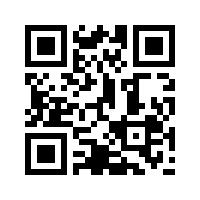
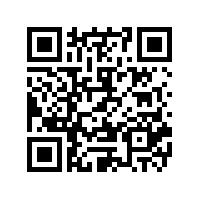
modif qr code

Changed region(s): [[0.12, 0.12, 0.9, 0.9]]

diff --git a/src/main/java/com/service/KitchenService.java b/src/main/java/com/service/KitchenService.java
@@ -53,6 +53,7 @@ public class KitchenService {
     private OwnerRepository ownerRepository;
     @Autowired
     private DTOUtils dtoUtils;
+    private final String restaurantTableIdPrefix ="start?restaurantTableId=";
 
     private final String QR_CODE_FILE_TYPE="QR Code";
 
@@ -149,7 +150,7 @@ public class KitchenService {
     private byte[] generateQRCode ( String frontEndUrl,String tableNumber) throws WriterException, IOException {
         QRCodeWriter barcodeWriter = new QRCodeWriter();
         BitMatrix bitMatrix =
-                barcodeWriter.encode(frontEndUrl+tableNumber, BarcodeFormat.QR_CODE, 200, 200);
+                barcodeWriter.encode(frontEndUrl+restaurantTableIdPrefix+tableNumber, BarcodeFormat.QR_CODE, 200, 200);
         BufferedImage bufferedImage = MatrixToImageWriter.toBufferedImage(bitMatrix);
         ByteArrayOutputStream byteArrayOutputStream = new ByteArrayOutputStream();
         ImageIO.write(bufferedImage,"jpg",byteArrayOutputStream);

diff --git a/src/test/java/com/controller/KitchenRestControllerTest.java b/src/test/java/com/controller/KitchenRestControllerTest.java
@@ -236,7 +236,7 @@ class KitchenRestControllerTest {
 
             try {
                 Result value = new MultiFormatReader().decode(bitmap);
-                assertEquals(frontEndUrl + String.valueOf(restaurentTableDTO.getTableNumber()), value.getText());
+                assertEquals(frontEndUrl+"start?restaurantTableId=" + String.valueOf(restaurentTableDTO.getTableNumber()), value.getText());
             } catch (NotFoundException e) {
                 System.out.println("There is no QR code in the image");
             }
